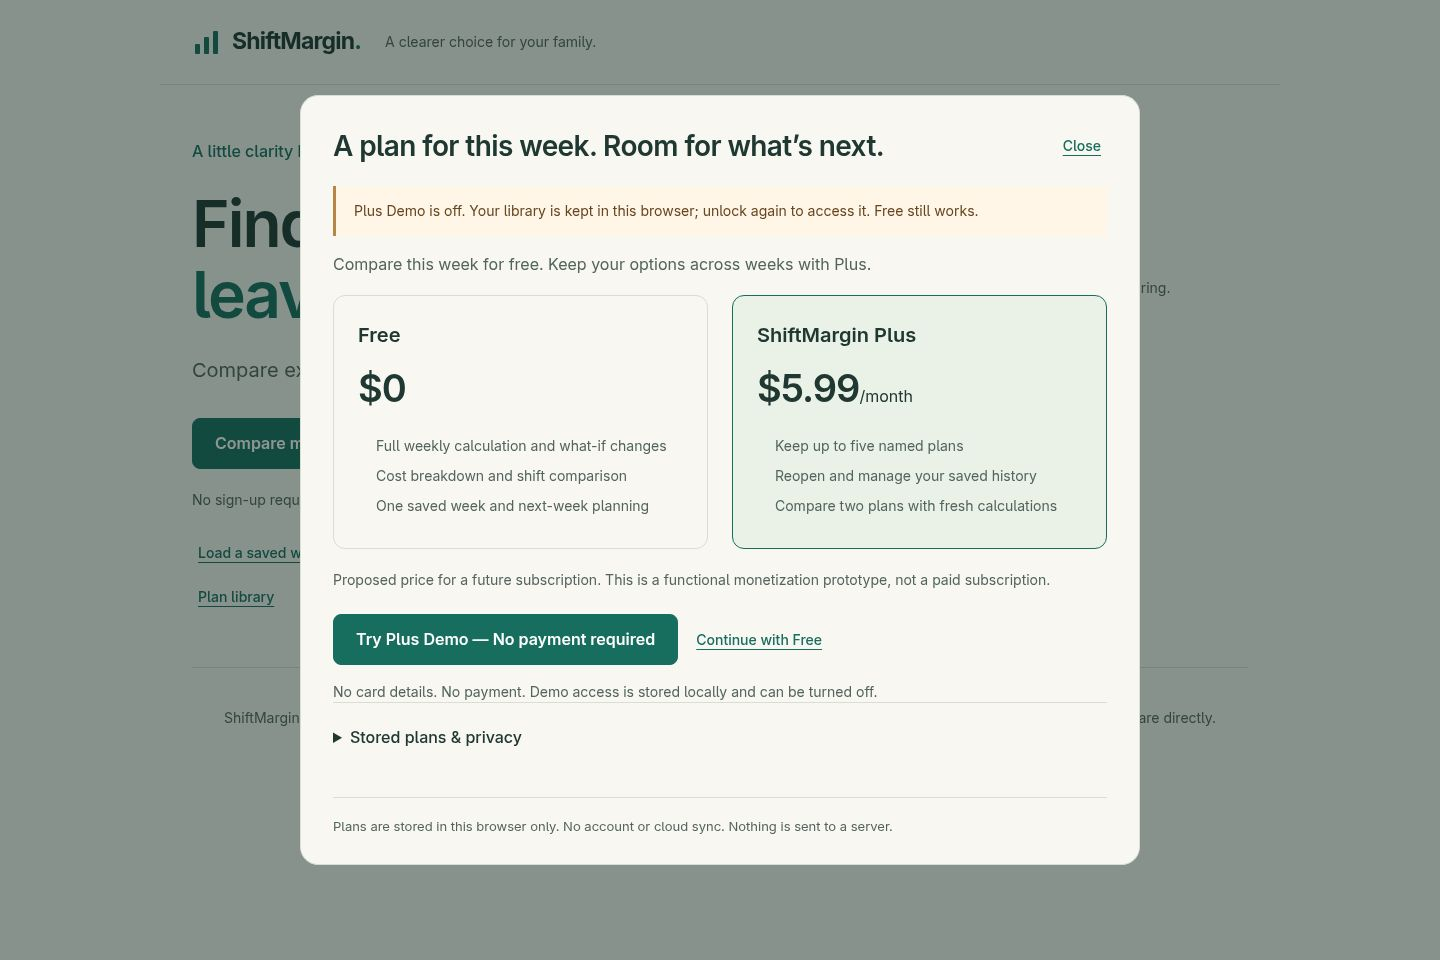
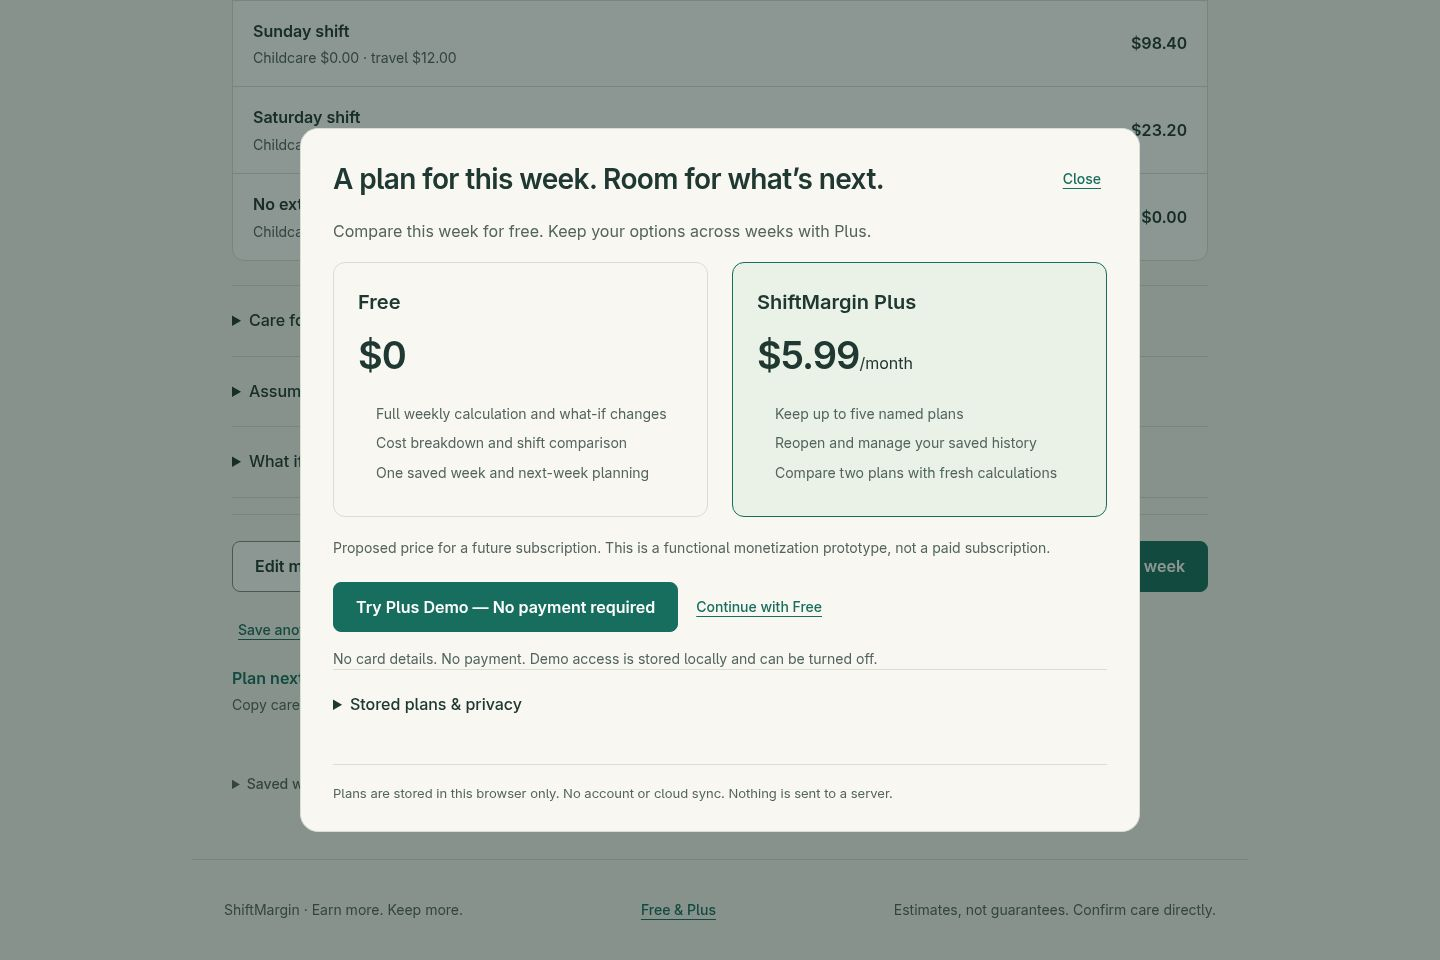
Record V2.2 production verification and screenshots

diff --git a/docs/QA_V2_2.md b/docs/QA_V2_2.md
@@ -20,12 +20,12 @@ In-app Chromium, production build served locally:
 | ---------------- | ------------------------------------------------------------------------------------------------------------------------------------------------------------------------------------------------------------------------------------------- |
 | A — Free         | Example $98.40; change cap to two gives $121.60; save/replace Free requires explicit confirmation                                                                                                                                           |
 | B — Upgrade      | Second save → Keep both with Plus → proposed $5.99/month → no-payment Demo → name and save; Free copy and new scenario appear as two records                                                                                                |
-| C — History      | Select both → actual workers return $98.40/$121.60 and $23.20 estimated difference; gross/withholding/care/travel visible; rename works; opening first plan restores $98.40                                                                 |
+| C — History      | Select both → actual workers return $98.40/$121.60 and $23.20 estimated difference; gross/withholding/care/travel visible; rename and confirmed deletion/cancel work; opening first plan restores $98.40                                    |
 | D — Return       | Reload retains Demo and both snapshots; renamed record persists; restore first → next week Nov 23 clears offers and moves care; new Sunday Nov 29 09:00–15:00 at $23/h, $12 travel and 20% withholding returns $98.40 after explicit review |
 | Demo off         | Library features relock, saved data retained; Free remains usable and Demo can be reopened                                                                                                                                                  |
 | E — Corrupt data | Covered in real React/jsdom app integration with corrupt storage, visible error, confirmed clearing and continued Free calculation; **not injected into the browser session**                                                               |
 
-At widths **375, 390, 768, 1280 and 1440**, comparison document scroll width equals viewport width and dialog scroll width equals its client width. Comparison stacks on small phones and uses two columns on tablet/desktop. Pricing and library mobile layouts visually reviewed; primary actions remain usable. Long dialog content scrolls internally; the background is locked. Desktop and mobile screenshots inspected.
+At widths **375, 390, 768, 1280 and 1440**, comparison document scroll width equals viewport width and dialog scroll width equals its client width. Comparison stacks on small phones and uses two columns on tablet/desktop. Pricing also passed the same five-width overflow checks. Library controls were exercised at 390 px; primary actions remain usable. Long dialog content scrolls internally; the background is locked. Desktop and mobile screenshots inspected.
 
 An initial local preview process stopped during QA. Comparison correctly displayed failure without partial money values. After restarting the preview and reloading the final build, real workers returned both correct results. This was an environment interruption, not an unresolved application error.
 
@@ -33,7 +33,7 @@ An initial local preview process stopped during QA. Comparison correctly display
 
 Native modal dialog, labelled heading, labelled inputs, explicit button names, initial heading focus and focus return are implemented. Browser Escape closes the final dialog and returns focus to Plan library; close buttons work. Automated cancellation/focus test passes. Native dialog supplies background inertness and focus containment. Embedded-browser Tab simulation did not advance focus reliably, so a complete physical-keyboard traversal and assistive-technology audit are **not verified**. No WCAG certification claimed.
 
-V2.1 colors/focus outlines are retained; new UI uses the same accent, paper, muted text and soft background. Existing contrast checks and reduced-motion rule are retained; no new animation was introduced. Financial terms use semantic definition lists; async result/error status and labelled comparison region remain readable in DOM inspection. Browser console results and final production evidence are recorded below.
+V2.1 colors/focus outlines are retained; new UI uses the same accent, paper, muted text and soft background. Existing contrast checks and reduced-motion rule are retained; no new animation was introduced. Financial terms use semantic definition lists; async result/error status and labelled comparison region remain readable in DOM inspection. Local browser console error log was empty after the completed scenarios. Final production evidence is recorded below.
 
 ## Performance and remaining limits
 
@@ -43,4 +43,10 @@ No critical calculation defect found. Unsaved drafts still disappear on refresh;
 
 ## Release
 
-Release verification pending at document creation; this section will be updated with actual commit, CI, deployment and public-browser evidence before handoff.
+Application release: `cdd85873771b01e466fbcbf559edd860a2dd3c22`. [Feature-branch CI](https://github.com/Pandaman-8/business-cup-2/actions/runs/43593903432) passed before the fast-forward update to main. [Main CI](https://github.com/Pandaman-8/business-cup-2/actions/runs/43593990322) passed. [GitHub Pages deployment](https://github.com/Pandaman-8/business-cup-2/actions/runs/43593990387) passed. Public root HTML serves the exact JS/CSS hashes listed above. Public-browser verification follows below.
+
+- [Public production](https://pandaman-8.github.io/business-cup-2/) checked after deployment. Example returns $98.40; two-shift limit returns $121.60. First Free save works, second save opens the replacement/Plus choice.
+- Live upgrade shows the proposed $5.99/month price, unlocks without payment and saves two named records. Reload retains Demo and both records. Live comparison recalculates $98.40/$121.60 and $23.20 difference with gross, withholding, care and travel detail; all values verified in the rendered DOM. Opening the first library record restores and recalculates $98.40.
+- Production console error log is empty. Browser automation itself later experienced CDP screenshot/locator timeouts; its documented native DOM controls completed history/comparison checks. This is reported as a verification-tool limitation rather than an application console error.
+- **Production screenshots:** Free desktop and pricing desktop/mobile. **Local build screenshots:** comparison desktop/mobile, taken before the final singular/plural copy adjustment. They show the same numerical outputs and layout; production comparison values were separately verified. A malformed resize-time library image was discarded rather than included as evidence.
+- No application code changed after the tested release. A following documentation-only commit records release evidence and screenshots. Existing workflow runtime deprecation/migration annotations did not fail either CI or deployment; workflow modernization was outside this release.
